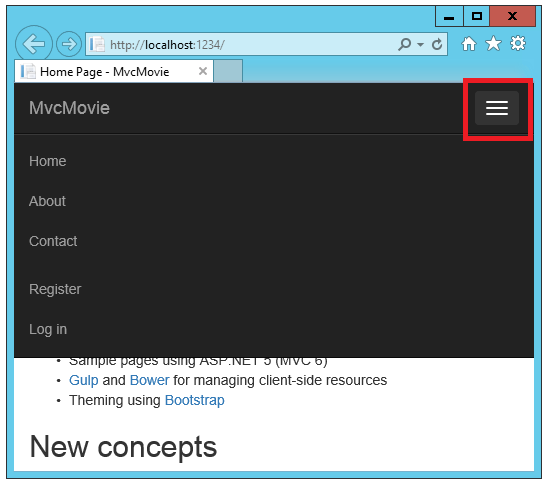
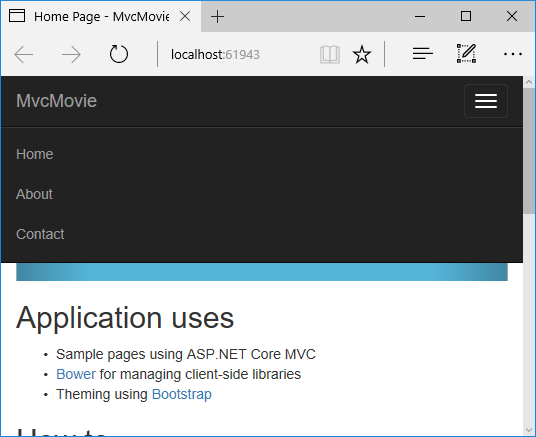
Updated tutorial for VS 2017 (#2397)
* Updated tutorial for VS 2017

Also addressed comments. Fixes #2233 Fixes #2365

* Addressed review feedback

diff --git a/aspnetcore/tutorials/first-mvc-app/start-mvc/sample/src/MvcMovie/Controllers/HelloWorldController.cs b/aspnetcore/tutorials/first-mvc-app/start-mvc/sample/src/MvcMovie/Controllers/HelloWorldController.cs
@@ -50,7 +50,7 @@ namespace MvcMovie.Controllers
         #region snippet_2
         public string Welcome(string name, int numTimes = 1)
         {
-            return HtmlEncoder.Default.Encode($"Hello {name}, numTimes: {numTimes}");
+            return HtmlEncoder.Default.Encode($"Hello {name}, NumTimes is: {numTimes}");
         }
         #endregion
     }

diff --git a/aspnetcore/tutorials/first-mvc-app/adding-view.md b/aspnetcore/tutorials/first-mvc-app/adding-view.md
@@ -18,11 +18,11 @@ In this section you're going to modify the `HelloWorldController` class to use R
 
 You'll create a view template file using Razor. Razor-based view templates have a *.cshtml* file extension, and provide an elegant way to create HTML output using C#. Razor seamlessly blends C# and HTML, minimizing the number of characters and keystrokes required when writing a view template, and enables a fast, fluid coding workflow.
 
-Currently the `Index` method returns a string with a message that is hard-coded in the controller class. Change the `Index` method to return a View object, as shown in the following code:
+Currently the `Index` method returns a string with a message that is hard-coded in the controller class. In the `HelloWorldController` class, replace the `Index` method with the following code:
 
 [!code-csharp[Main](start-mvc/sample/src/MvcMovie/Controllers/HelloWorldController.cs?name=snippet_4)]
 
-The `Index` method above uses a view template to generate an HTML response to the browser. Controller methods (also known as action methods) such as the `Index` method above, generally return an `IActionResult` (or a class derived from `ActionResult`), not primitive types like string.
+The `Index` method above returns a View object. It uses a view template to generate an HTML response to the browser. Controller methods (also known as action methods) such as the `Index` method above, generally return an `IActionResult` (or a class derived from `ActionResult`), not primitive types like string.
 
 * Right click on the *Views* folder, and then **Add > New Folder** and name the folder *HelloWorld*.
 
@@ -34,7 +34,7 @@ The `Index` method above uses a view template to generate an HTML response to th
 
   * Tap **MVC View Page**
 
-  * In the **Name** box, keep the default *Index.cshtml*
+  * In the **Name** box, change the name if necessary to *Index.cshtml*.
 
   * Tap **Add**
 
@@ -62,14 +62,14 @@ Tap on the menu links (**MvcMovie**, **Home**, **About**). Each page shows the s
 
 ### Change the title and menu link in the layout file
 
-Change the contents of the title element. Change the anchor text in the layout template to "MVC Movie" and the controller from `Home` to `Movies` as highlighted below:
+Change the contents of the title element. Change the anchor text in the layout template to "Movie App" and the controller from `Home` to `Movies` as highlighted below:
 
 [!code-html[Main](start-mvc/sample/src/MvcMovie/Views/Shared/_Layout.html?highlight=6,29)]
 
 >[!WARNING]
 > We haven't implemented the `Movies` controller yet, so if you click on that link, you'll get a 404 (Not found) error.
 
-Save your changes and tap the **About** link. Notice how each page displays the **Mvc Movie** link. We were able to make the change once in the layout template and have all pages on the site reflect the new link text and new title.
+Save your changes and tap the **About** link. Notice how the title on the browser tab now displays **About - Movie App** instead of **About - Mvc Movie**. Tap the **Contact** link and notice that it also displays **Movie App**. We were able to make the change once in the layout template and have all pages on the site reflect the new link text and new title.
 
 Examine the *Views/_ViewStart.cshtml* file:
 
@@ -110,7 +110,7 @@ You'll make them slightly different so you can see which bit of code changes whi
 <title>@ViewData["Title"] - Movie App</title>
    ```
 
-Save your change and refresh the page. Notice that the browser title, the primary heading, and the secondary headings have changed. (If you don't see changes in the browser, you might be viewing cached content. Press Ctrl+F5 in your browser to force the response from the server to be loaded.) The browser title is created with `ViewData["Title"]` we set in the *Index.cshtml* view template and the additional "- Movie App" added in the layout file.
+Save your change and navigate to `http://localhost:xxxx/HelloWorld`. Notice that the browser title, the primary heading, and the secondary headings have changed. (If you don't see changes in the browser, you might be viewing cached content. Press Ctrl+F5 in your browser to force the response from the server to be loaded.) The browser title is created with `ViewData["Title"]` we set in the *Index.cshtml* view template and the additional "- Movie App" added in the layout file.
 
 Also notice how the content in the *Index.cshtml* view template was merged with the *Views/Shared/_Layout.cshtml* view template and a single HTML response was sent to the browser. Layout templates make it really easy to make changes that apply across all of the pages in your application. To learn more see [Layout](../../mvc/views/layout.md).
 

diff --git a/aspnetcore/tutorials/first-mvc-app/adding-model.md b/aspnetcore/tutorials/first-mvc-app/adding-model.md
@@ -44,7 +44,7 @@ Complete the **New Project** dialog:
 
 ![image](start-mvc/_static/new_project2.png)
 
->[!WARNING]
+> [!WARNING]
 > You must have the **Authentication** set to **Individual User Accounts** in this release for the scaffolding engine to work.
 
 In the **New ASP.NET Core Web Application - MvcMovie** dialog:
@@ -79,8 +79,8 @@ In the **Add Scaffold** dialog, tap **MVC Controller with views, using Entity Fr
 
 Complete the **Add Controller** dialog
 
-* **Model class:** *Movie(MvcMovie.Models)*
-* **Data context class:** *ApplicationDbContext(MvcMovie.Data)*
+* **Model class:** *Movie (MvcMovie.Models)*
+* **Data context class:** *ApplicationDbContext (MvcMovie.Data)*
 * **Views:**: Keep the default of each option checked
 * **Controller name:** Keep the default *MoviesController*
 * Tap **Add**
@@ -104,53 +104,15 @@ We'll follow those instructions to get the database ready for our Movie app.
 
 ### Update the database
 
-You must stop IIS Express before you update the database.
-
-<a name=stop-iis-express-reference-label></a>
-
-## To Stop IIS Express:
-
-* Right click the IIS Express system tray icon in the notification area
-
-   ![image](working-with-sql/_static/iisExIcon.png)
-
-* Tap **Exit** or **Stop Site**
-
-![image](working-with-sql/_static/stopIIS.png)
-
-* Alternatively, you can exit and restart Visual Studio
-
-* Open a command prompt in the project directory (MvcMovie/src/MvcMovie). Follow these instructions for a quick way to open a folder in the project directory.
-
-  * Open a file in the root of the project (for this example, use *Startup.cs*.)
-
-  * Right click on *Startup.cs*  **> Open Containing Folder**.
-
-
-
-   ![image](adding-model/_static/quick.png)
-
-
-
-   * Shift + right click a folder > **Open command window here**
-
-
-
-   ![image](adding-model/_static/folder.png)
-
-
-
-   * Run `cd ..` to move back up to the project directory
+* Open a command prompt and navigate to the project directory (*your_path*/MvcMovie/src/MvcMovie). You can find the path by selecting the `web.config` file in Solution Explorer and viewing the `Full Path` property in the Properties window.
 
 * Run the following commands in the command prompt:
 
-```console
-dotnet ef migrations add Initial
-dotnet ef database update
-   ```
-   
-Note: If IIS-Express is running, you might get the error *CS2012: Cannot open 'MvcMovie/bin/Debug/netcoreapp1.0/MvcMovie.dll' for writing -- 'The process cannot access the file 'MvcMovie/bin/Debug/netcoreapp1.0/MvcMovie.dll' because it is being used by another process.'* If you get that error, exit and restart Visual Studio.
-
+  ```console
+  dotnet ef migrations add Initial
+  dotnet ef database update
+  ```
+  
 ## dotnet ef commands
 
 * `dotnet` (.NET Core) is a cross-platform implementation of .NET. You can read about it [here](http://go.microsoft.com/fwlink/?LinkID=517853)

diff --git a/aspnetcore/tutorials/first-mvc-app/start-mvc.md b/aspnetcore/tutorials/first-mvc-app/start-mvc.md
@@ -27,6 +27,9 @@ This tutorial will teach you the basics of building an ASP.NET Core MVC web app 
 
 * Install [.NET Core + Visual Studio tooling](http://go.microsoft.com/fwlink/?LinkID=798306)
 
+> [!Note]
+> You can also use Visual Studio 2017 RC for this tutorial. Some of the steps will differ slightly; the differences are called out throughout the tutorial. [Download Visual Studio 2017 RC](https://www.visualstudio.com/vs/visual-studio-2017-rc/). When you begin the installation, Visual Studio allows you to select the optional components to include in the installation. Choose the .NET Core and Docker (Preview) workload.
+
 ## Create a web app
 
 From the Visual Studio **Start** page, tap **New Project**.
@@ -54,6 +57,9 @@ Complete the **New ASP.NET Core Web Application - MvcMovie** dialog:
 
 ![New ASP.NET Core web app](start-mvc/_static/p3.png)
 
+> [!Note]
+> In Visual Studio 2017 RC, the **Host in the cloud** option is disabled and the dialog is slightly different than the illustration.
+
 Visual Studio used a default template for the MVC project you just created, so you have a working app right now by entering a project name and selecting a few options. This is a simple "Hello World!" project, and it's a good place to start,
 
 Tap **F5** to run the app in debug mode or **Ctrl-F5** in non-debug mode.
@@ -70,9 +76,11 @@ Tap **F5** to run the app in debug mode or **Ctrl-F5** in non-debug mode.
 
 ![IIS Express](start-mvc/_static/iis_express.png)
 
-The default template gives you working **Home, Contact, About, Register** and **Log in** links. The browser image above doesn't show these links. Depending on the size of your browser, you might need to click the navigation icon to show them.
+The default template gives you working **Home, About** and **Contact** links. The browser image above doesn't show these links. Depending on the size of your browser, you might need to click the navigation icon to show them.
 
 ![navigation icon in upper right](start-mvc/_static/2.png)
+
+If you were running in debug mode, tap **Shift-F5** to stop debugging.
 
 In the next part of this tutorial, we'll learn about MVC and start writing some code.
 

diff --git a/aspnetcore/tutorials/first-mvc-app/working-with-sql.md b/aspnetcore/tutorials/first-mvc-app/working-with-sql.md
@@ -30,21 +30,21 @@ LocalDB is a lightweight version of the SQL Server Express Database Engine that 
 
 * From the **View** menu, open **SQL Server Object Explorer** (SSOX).
 
-![image](working-with-sql/_static/ssox.png)
+  ![image](working-with-sql/_static/ssox.png)
 
 * Right click on the `Movie` table **> View Designer**
 
-![image](working-with-sql/_static/design.png)
+  ![image](working-with-sql/_static/design.png)
 
-![image](working-with-sql/_static/dv.png)
+  ![image](working-with-sql/_static/dv.png)
 
 Note the key icon next to `ID`. By default, EF will make a property named `ID` the primary key.
 
 * Right click on the `Movie` table **> View Data**
 
-![image](working-with-sql/_static/ssox2.png)
+  ![image](working-with-sql/_static/ssox2.png)
 
-![image](working-with-sql/_static/vd22.png)
+  ![image](working-with-sql/_static/vd22.png)
 
 ## Seed the database
 
@@ -72,17 +72,16 @@ Test the app
 
   * Right click the IIS Express system tray icon in the notification area and tap **Exit** or **Stop Site**
 
+    ![image](working-with-sql/_static/iisExIcon.png)
 
-![image](working-with-sql/_static/iisExIcon.png)
+    ![image](working-with-sql/_static/stopIIS.png)
 
-![image](working-with-sql/_static/stopIIS.png)
+    > [!Note]
+    > In Visual Studio 2017 RC you don't need to stop IIS Express.
 
    * If you were running VS in non-debug mode, press F5 to run in debug mode
-   * If you were running VS in debug mode, stop the debugger and press ^F5
-   * If the database doesn't initialize, put a break point on the line `if (context.Movie.Any())` and start debugging.
-
-![image](working-with-sql/_static/dbg.png)
-
+   * If you were running VS in debug mode, stop the debugger and press F5
+   
 The app shows the seeded data.
 
 ![image](working-with-sql/_static/m55.png)

diff --git a/aspnetcore/tutorials/first-mvc-app/controller-methods-views.md b/aspnetcore/tutorials/first-mvc-app/controller-methods-views.md
@@ -24,17 +24,22 @@ Open the *Models/Movie.cs* file and add the highlighted lines shown below:
 
 * Right click on a red squiggly line **> Quick Actions**.
 
-    ![image](controller-methods-views/_static/qa.png)
+  ![image](controller-methods-views/_static/qa.png)
+
+  > [!Note]
+  > In Visual Studio 2017 RC 2, the menu command is **> Quick Actions and Refactorings**.
 
 * Tap `using System.ComponentModel.DataAnnotations;`
 
-    ![image](controller-methods-views/_static/da.png)
+  ![image](controller-methods-views/_static/da.png)
 
-Visual studio adds `using System.ComponentModel.DataAnnotations;`.
+  Visual studio adds `using System.ComponentModel.DataAnnotations;`.
 
 Let's remove the `using` statements that are not needed. They show up by default in a light grey font. Right click anywhere in the *Movie.cs* file **> Organize Usings > Remove Unnecessary Usings**.
 
 ![image](controller-methods-views/_static/rm.png)
+
+**Visual Studio 2017 RC 2 note:** This step isn't necessary. Unneeded `using` statements were automatically removed.
 
 The updated code:
 
@@ -68,7 +73,7 @@ Open the `Movies` controller and examine the two `Edit` action methods:
 
 [!code-csharp[Main](start-mvc/sample2/src/MvcMovie/Controllers/MoviesController.cs?range=78-92)]
 
-This method will be updated after we add rating (add it to the bind)
+This method will be updated after we add a rating (add it to the bind).
 
 [!code-csharp[Main](start-mvc/sample2/src/MvcMovie/Controllers/MoviesController.cs?range=101-131)]
 

diff --git a/aspnetcore/tutorials/first-mvc-app/adding-controller.md b/aspnetcore/tutorials/first-mvc-app/adding-controller.md
@@ -25,9 +25,7 @@ The Model-View-Controller (MVC) architectural pattern separates an app into thre
 
 The MVC pattern helps you create apps that separate the different aspects of the app (input logic, business logic, and UI logic), while providing a loose coupling between these elements. The pattern specifies where each kind of logic should be located in the app. The UI logic belongs in the view. Input logic belongs in the controller. Business logic belongs in the model. This separation helps you manage complexity when you build an app, because it enables you to work on one aspect of the implementation at a time without impacting the code of another. For example, you can work on the view code without depending on the business logic code.
 
-We'll be covering all these concepts in this tutorial series and show you how to use them to build a simple movie app. The following image shows the *Models*, *Views* and *Controllers* folders in the MVC project.
-
-![image](adding-controller/_static/mvc1.png)
+We'll be covering all these concepts in this tutorial series and show you how to use them to build a simple movie app. The MVC project currently contains folders for the *Controllers* and *Views*. A *Models* folder will be added in a later step.
 
 * In **Solution Explorer**, right-click **Controllers > Add > New Item... > MVC Controller Class**
 

diff --git a/aspnetcore/tutorials/first-mvc-app/new-field.md b/aspnetcore/tutorials/first-mvc-app/new-field.md
@@ -26,7 +26,7 @@ Open the *Models/Movie.cs* file and add a `Rating` property:
 
 Build the app (Ctrl+Shift+B).
 
-Because you've added a new field to the `Movie` class, you also need to update the binding white list so this new property will be included. Update the `[Bind]` attribute for `Create` and `Edit` action methods to include the `Rating` property:
+Because you've added a new field to the `Movie` class, you also need to update the binding white list so this new property will be included. In *MoviesController.cs*, update the `[Bind]` attribute for both the `Create` and `Edit` action methods to include the `Rating` property:
 
 ```csharp
 [Bind("ID,Title,ReleaseDate,Genre,Price,Rating")]
@@ -61,9 +61,6 @@ For this tutorial, we'll use Code First Migrations.
 Update the `SeedData` class so that it provides a value for the new column. A sample change is shown below, but you'll want to make this change for each `new Movie`.
 
 [!code-csharp[Main](./start-mvc/sample2/src/MvcMovie/Models/SeedDataRating.cs?highlight=6&range=25-32)]
-
->[!WARNING]
-> You must stop IIS Express before you run the `dotnet ef` commands.   See [To Stop IIS Express:](adding-model.md#stop-iis-express-reference-label)
 
 Build the solution then open a command prompt. Enter the following commands:
 

diff --git a/aspnetcore/tutorials/first-mvc-app/search.md b/aspnetcore/tutorials/first-mvc-app/search.md
@@ -16,7 +16,7 @@ uid: tutorials/first-mvc-app/search
 
 In this section you'll add search capability to the `Index` action method that lets you search movies by *genre* or *name*.
 
-Update the `Index` action method to enable search:
+Update the `Index` method with the following code:
 
 [!code-csharp[Main](start-mvc/sample2/src/MvcMovie/Controllers/MoviesController.cs?name=snippet_1stSearch)]
 
@@ -143,7 +143,7 @@ The movie-genre view model will contain:
 
    * `movieGenre`, which contains the selected genre
 
-Replace the `Index` method with the following code:
+Replace the `Index` method in `MoviesController.cs` with the following code:
 
 [!code-csharp[Main](start-mvc/sample2/src/MvcMovie/Controllers/MoviesController.cs?name=snippet_SearchGenre)]
 
@@ -162,6 +162,8 @@ movieGenreVM.genres = new SelectList(await genreQuery.Distinct().ToListAsync())
    ```
 
 ## Adding search by genre to the Index view
+
+Update `Index.cshtml` as follows:
 
 [!code-HTML[Main](../../tutorials/first-mvc-app/start-mvc/sample2/src/MvcMovie/Views/Movies/IndexFormGenre.cshtml?highlight=1,15,16,17,27,41)]
 
